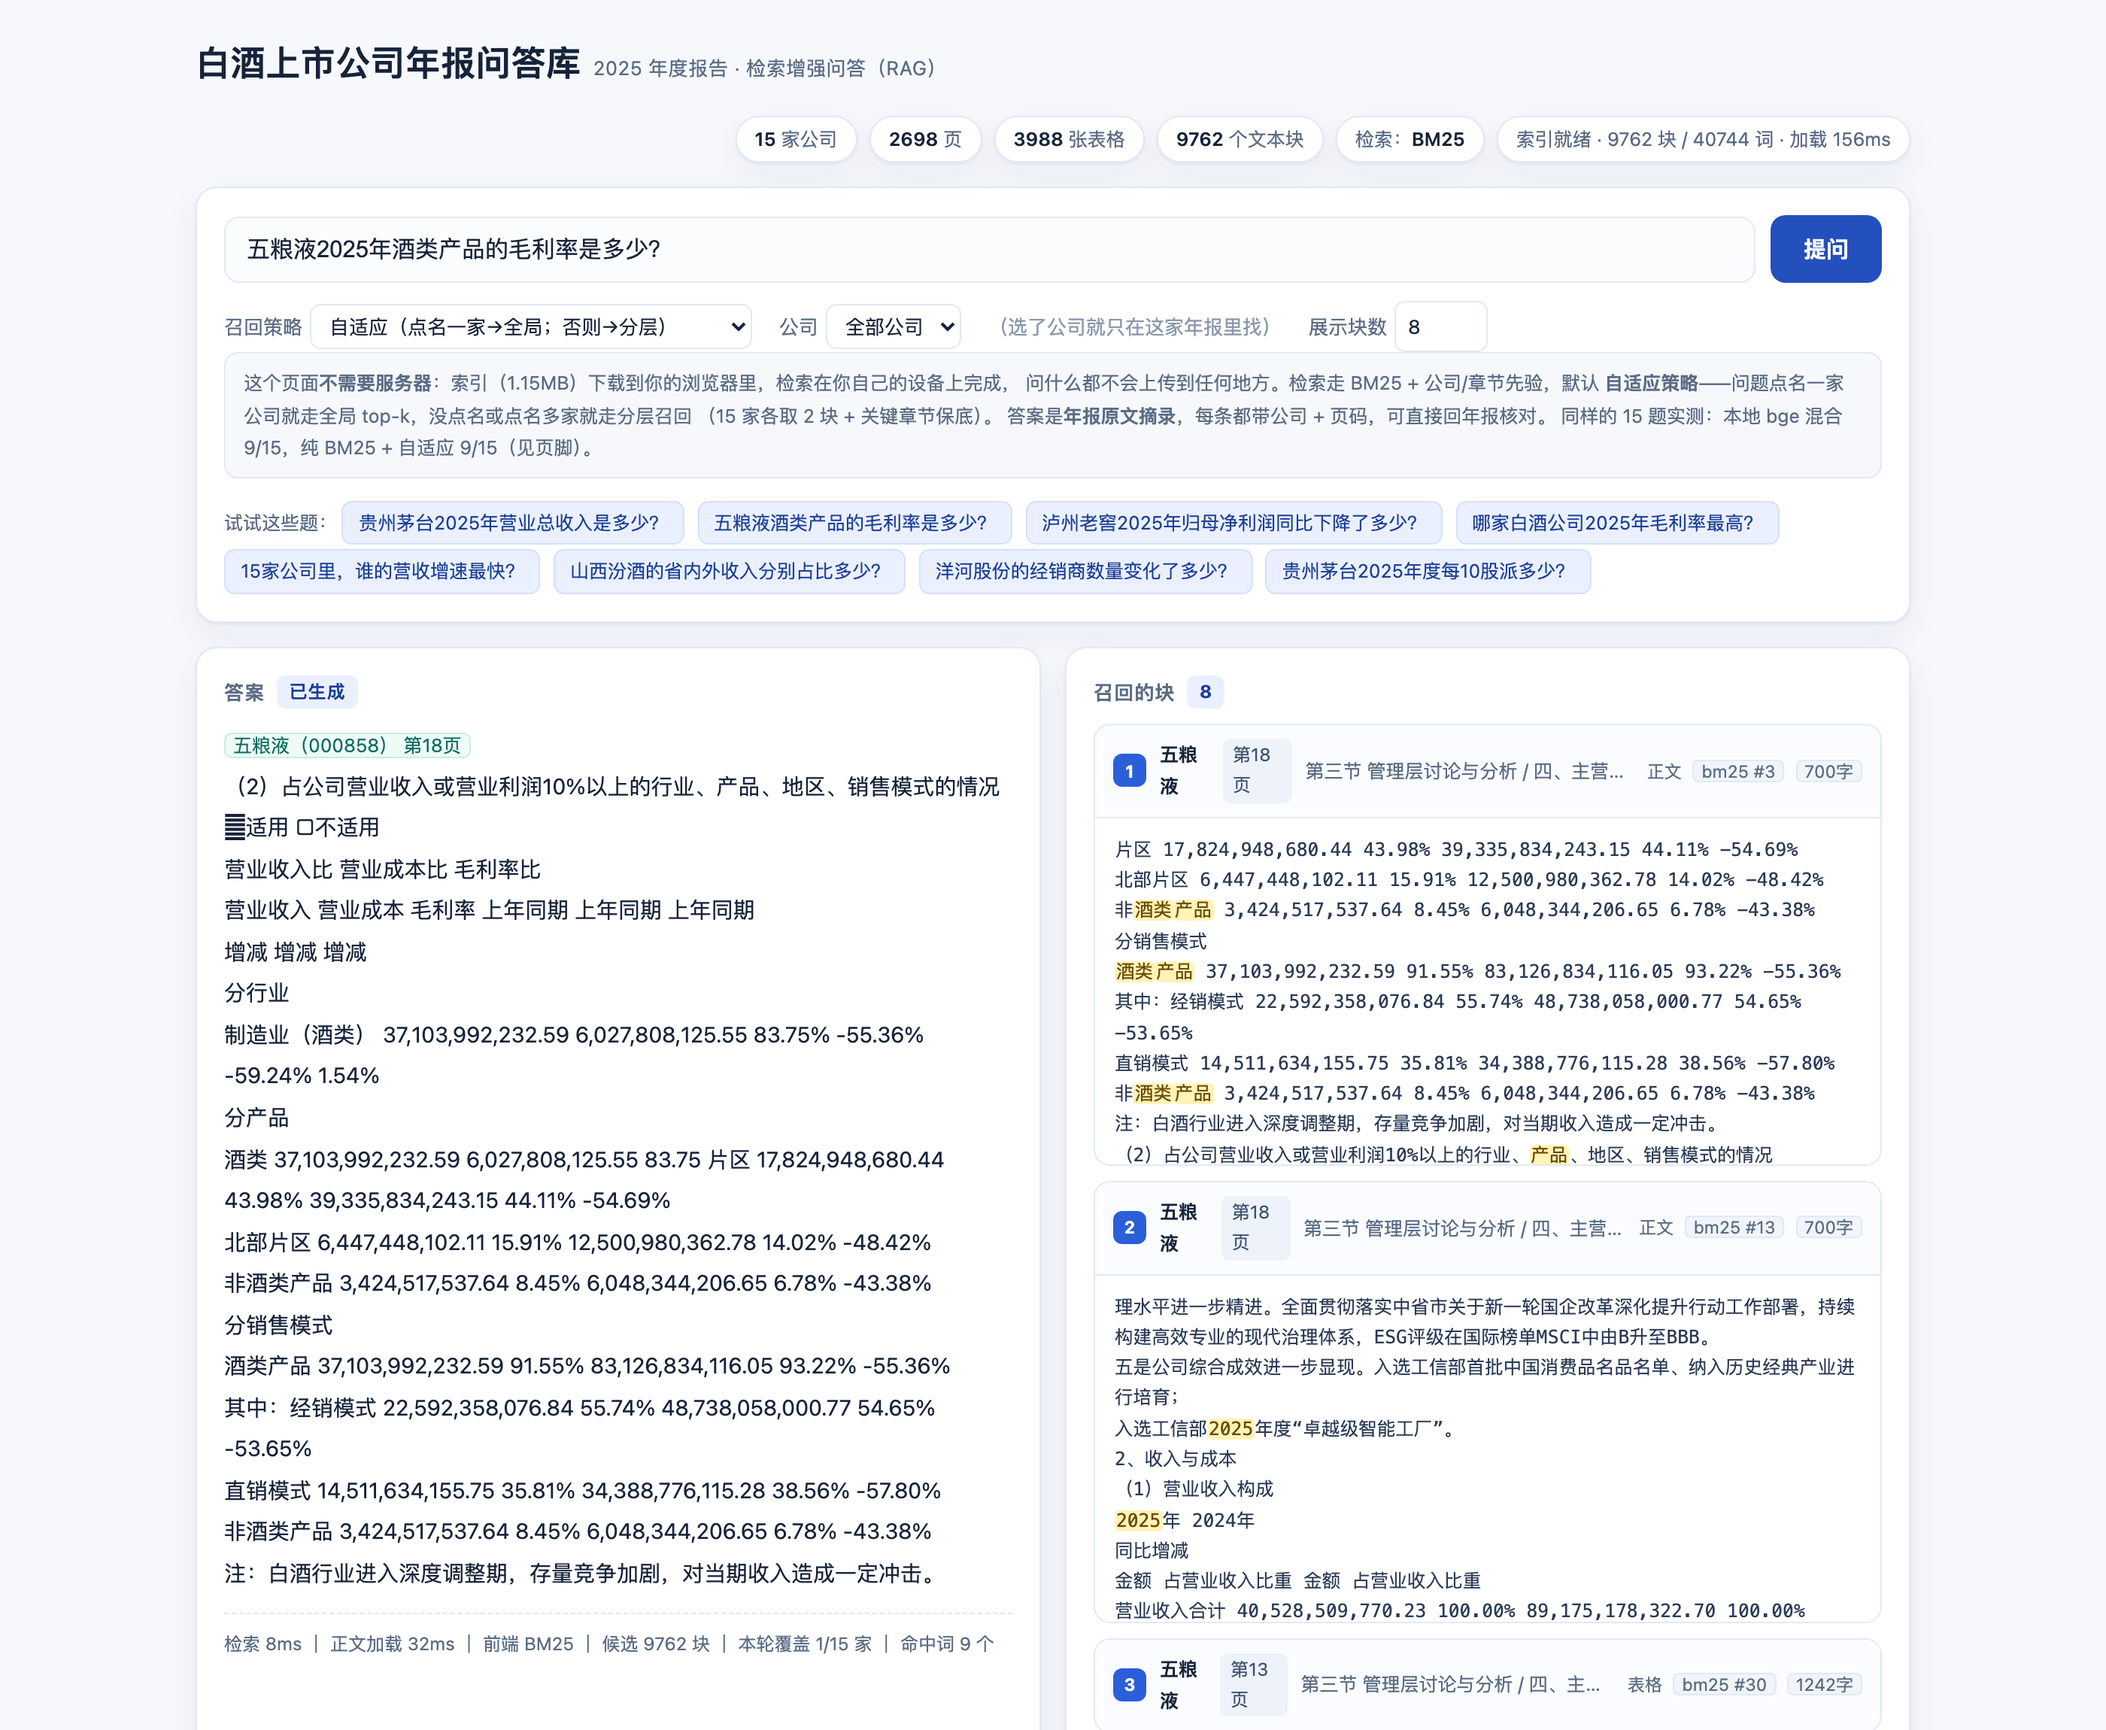
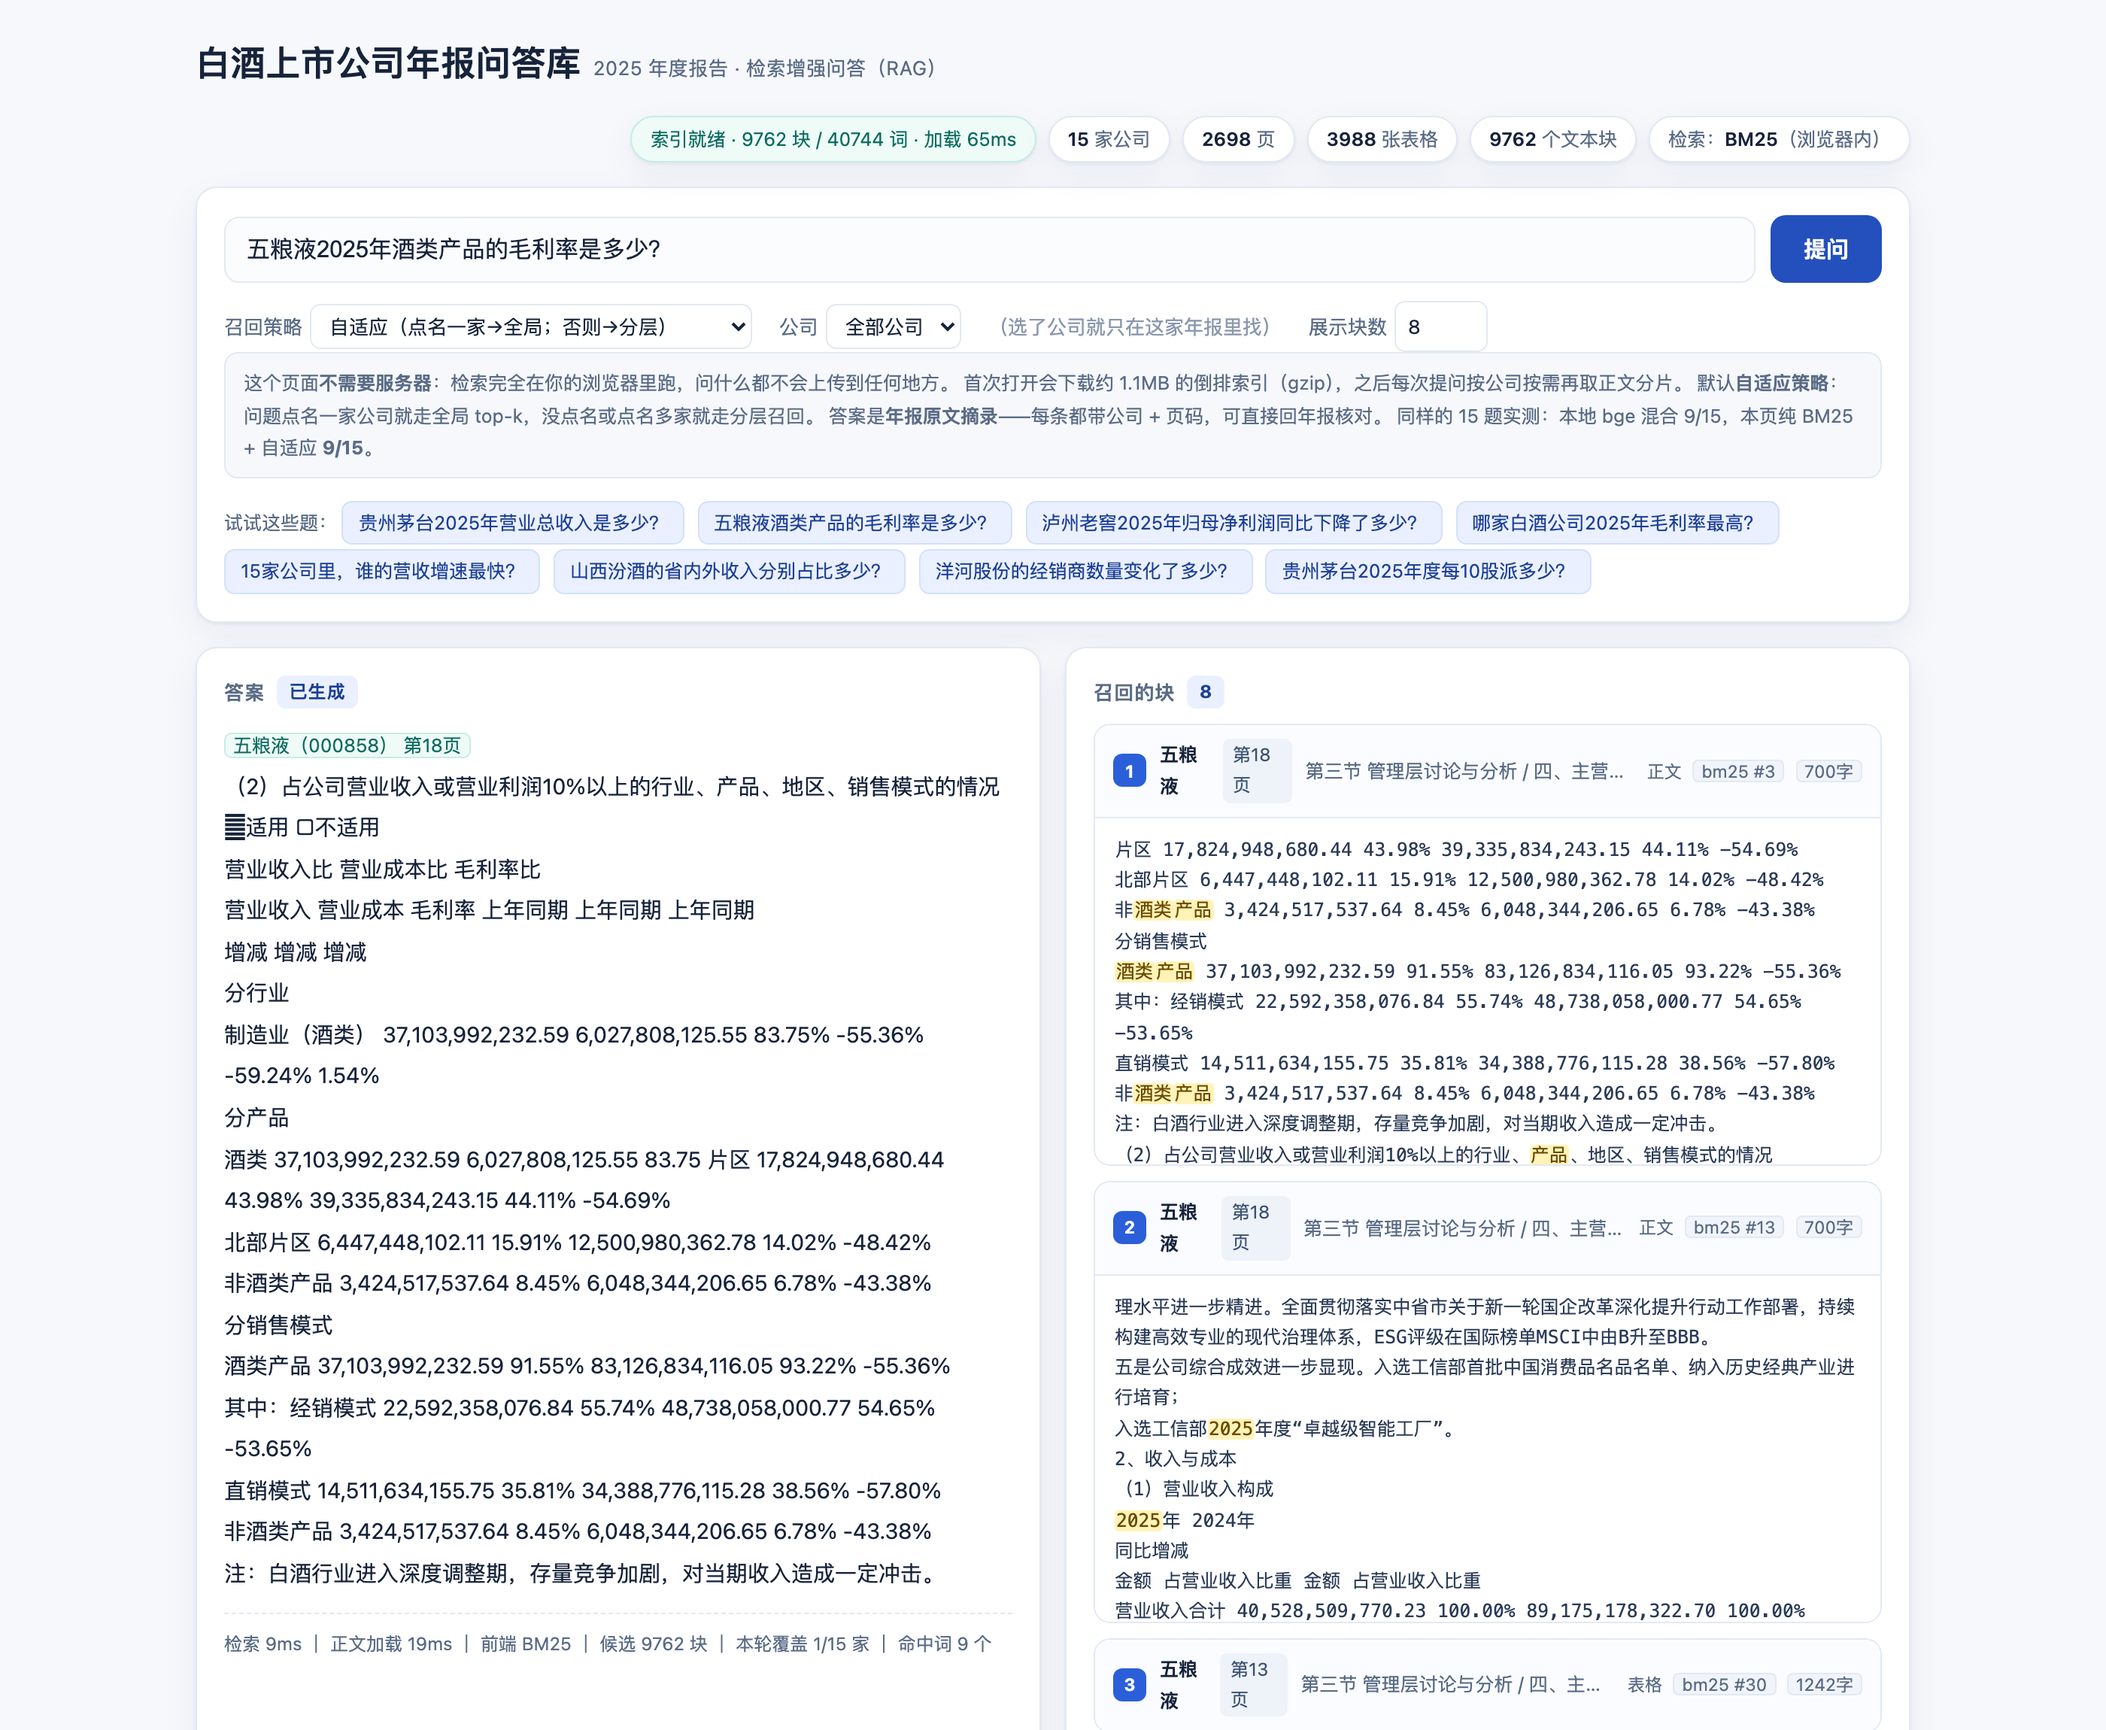
修复：根 index.html 误回退成服务端旧版（提问会 404），重写为纯静态版并重截四张图

Changed region(s): [[0.1243, 0.2161, 0.87, 0.2778], [0.3107, 0.0617, 0.9011, 0.0926], [0.1864, 0.9261, 0.4661, 0.957]]

diff --git a/index.html b/index.html
@@ -4,7 +4,7 @@
 <meta charset="utf-8">
 <meta name="viewport" content="width=device-width, initial-scale=1">
 <title>白酒上市公司年报问答库 · 2025年报</title>
-<meta name="description" content="15 家白酒上市公司 2025 年报的检索问答库：BM25 检索 + 带出处（公司/页码）的答案">
+<meta name="description" content="15 家白酒上市公司 2025 年报的检索问答库：BM25 检索 + 带出处（公司/页码）的答案，纯静态、检索在浏览器里完成">
 <style>
 :root{
   --bg:#f6f8fc; --panel:#ffffff; --line:#e3e9f2; --ink:#16233a; --ink2:#5a6b85;
@@ -24,6 +24,8 @@ h1 small{font-size:13px;font-weight:400;color:var(--ink2);margin-left:8px}
 .chip{background:var(--panel);border:1px solid var(--line);border-radius:999px;
   padding:4px 12px;font-size:12.5px;color:var(--ink2);box-shadow:var(--shadow)}
 .chip b{color:var(--ink);font-weight:600}
+.chip.state{background:#eefbf7;border-color:#c9ece4;color:#0b6b60}
+.chip.state.bad{background:#fff7ed;border-color:#fed7aa;color:#9a3412}
 
 .card{background:var(--panel);border:1px solid var(--line);border-radius:14px;
   box-shadow:var(--shadow);padding:18px;margin-bottom:16px}
@@ -90,11 +92,12 @@ footer{color:var(--ink2);font-size:12px;text-align:center;margin-top:26px;line-h
 <header class="top">
   <h1>白酒上市公司年报问答库<small>2025 年度报告 · 检索增强问答（RAG）</small></h1>
   <div class="stats">
-    <span class="chip"><b>15</b> 家公司</span>
-    <span class="chip"><b>2698</b> 页</span>
-    <span class="chip"><b>3988</b> 张表格</span>
-    <span class="chip"><b>9762</b> 个文本块</span>
-    <span class="chip">检索：<b>BM25</b></span>
+    <span class="chip state" id="boot">初始化…</span>
+    <span class="chip"><b id="c-company">15</b> 家公司</span>
+    <span class="chip"><b id="c-page">2698</b> 页</span>
+    <span class="chip"><b id="c-table">3988</b> 张表格</span>
+    <span class="chip"><b id="c-chunk">9762</b> 个文本块</span>
+    <span class="chip">检索：<b>BM25</b>（浏览器内）</span>
   </div>
 </header>
 
@@ -127,10 +130,11 @@ footer{color:var(--ink2);font-size:12px;text-align:center;margin-top:26px;line-h
     <label>展示块数 <input id="topk" type="number" value="8" min="1" max="40" style="width:62px"></label>
   </div>
   <div class="note">
-    线上版走纯 BM25 检索（Vercel 函数包体上限 250MB，装不下 torch），默认
-    <strong>自适应策略</strong>：问题点名一家公司就走全局 top-k，没点名或点名多家就走分层召回。
+    这个页面<strong>不需要服务器</strong>：检索完全在你的浏览器里跑，问什么都不会上传到任何地方。
+    首次打开会下载约 1.1MB 的倒排索引（gzip），之后每次提问按公司按需再取正文分片。
+    默认<strong>自适应策略</strong>：问题点名一家公司就走全局 top-k，没点名或点名多家就走分层召回。
     答案是<strong>年报原文摘录</strong>——每条都带公司 + 页码，可直接回年报核对。
-    同样的 15 题实测：本地 bge 混合 9/15，线上纯 BM25 + 自适应 9/15。
+    同样的 15 题实测：本地 bge 混合 9/15，本页纯 BM25 + 自适应 <strong>9/15</strong>。
   </div>
   <div class="tips">
     试试这些题：
@@ -148,7 +152,6 @@ footer{color:var(--ink2);font-size:12px;text-align:center;margin-top:26px;line-h
 <div class="grid">
   <div class="card">
     <p class="sect-title">答案 <span class="n" id="ansState">待提问</span></p>
-    <div id="llmErr"></div>
     <div id="answer"><span class="empty">输入问题后，这里给出带出处（公司 + 页码）的答案。</span></div>
     <div class="metabar" id="meta"></div>
   </div>
@@ -161,70 +164,12 @@ footer{color:var(--ink2);font-size:12px;text-align:center;margin-top:26px;line-h
 
 <footer>
   数据来源：巨潮资讯网（cninfo.com.cn）公开年报 PDF · 检索在你的浏览器里完成，问什么都不会上传到任何地方<br>
-  检索后端 BM25（k1=1.5, b=0.75） + 公司/章节元数据先验 + 分层召回；答案默认取原文摘录，未调用大模型
+  检索后端 BM25（k1=1.5, b=0.75） + 公司/章节元数据先验 + 分层召回；答案取年报原文摘录，未调用大模型<br>
+  15 题实测：自适应策略 9/15（与本地 bge 向量混合检索持平）
 </footer>
 </div>
 
-<script>
-const $ = s => document.querySelector(s);
-let loading = false;
-
-$('.tips').addEventListener('click', e => {
-  if (e.target.classList.contains('ex')) { $('#q').value = e.target.textContent.trim(); ask(); }
-});
-$('#q').addEventListener('keydown', e => { if (e.key === 'Enter' && !loading) ask(); });
-$('#go').addEventListener('click', () => { if (!loading) ask(); });
-
-function esc(s){return (s||'').replace(/[&<>]/g,m=>({'&':'&amp;','<':'&lt;','>':'&gt;'}[m]));}
-
-// [贵州茅台（600519）第21页] 这类出处标记渲染成绿色小标签
-function fmtAnswer(t){
-  return esc(t).replace(/[\[【]([^\]】]{0,40}?)第(\d+)页[\]】]/g,
-    (m,a,b)=>`<citeflag>${a.trim()} 第${b}页</citeflag>`);
-}
-
-async function ask(){
-  const q = $('#q').value.trim();
-  if(!q) return;
-  loading = true; $('#go').disabled = true;
-  $('#ansState').innerHTML = '<span class="spin"></span>检索中';
-  $('#answer').innerHTML = '<span class="empty">正在检索…</span>';
-  $('#llmErr').innerHTML = ''; $('#meta').innerHTML = '';
-  try{
-    const r = await fetch('/api/ask', {method:'POST', headers:{'Content-Type':'application/json'},
-      body: JSON.stringify({q, strategy:$('#strategy').value, topk:+$('#topk').value,
-        code:$('#code').value, llm:true})});
-    const d = await r.json();
-    if(d.error){ $('#answer').innerHTML = '<span class="empty">'+esc(d.error)+'</span>';
-      $('#ansState').textContent='出错'; return; }
-    $('#hitN').textContent = d.hits.length;
-    $('#hits').innerHTML = d.hits.map(h => `
-      <div class="hit${h.rank<=2?' open':''}">
-        <div class="hd" onclick="this.parentNode.classList.toggle('open')">
-          <span class="rk">${h.rank}</span>
-          <span class="co">${h.name}</span>
-          <span class="pg">第${h.page}页</span>
-          <span class="sec">${esc(h.section)}${h.subsection?' / '+esc(h.subsection):''}</span>
-          <span class="tag">${h.kind==='table'?'表格':'正文'}
-            <span class="s">bm25 #${h.by}</span>
-            <span class="s">${h.n_chars}字</span></span>
-        </div>
-        <div class="bd">${h.html}</div>
-      </div>`).join('') || '<span class="empty">没有召回任何块。</span>';
-
-    $('#answer').innerHTML = d.answer ? fmtAnswer(d.answer)
-      : '<span class="empty">没有摘到原文，请展开右侧召回块查看。</span>';
-    $('#ansState').textContent = '已生成';
-    if(d.llm_error) $('#llmErr').innerHTML = `<div class="err">${esc(d.llm_error)}</div>`;
-    $('#meta').innerHTML = `检索 ${d.stats.retrieval_ms}ms ｜ 加载 ${d.stats.load_ms}ms ｜ 总计 ${d.stats.total_ms}ms`
-      + ` ｜ ${d.stats.backend} ｜ 候选 ${d.stats.n_chunks} 块 ｜ 本轮覆盖 ${d.n_companies}/15 家公司`;
-  }catch(e){
-    $('#answer').innerHTML = '<span class="empty">请求失败：' + esc(String(e)) + '</span>';
-    $('#ansState').textContent = '出错';
-  }finally{
-    loading=false; $('#go').disabled=false;
-  }
-}
-</script>
+<script src="assets/retriever.js"></script>
+<script src="assets/app.js"></script>
 </body>
 </html>
